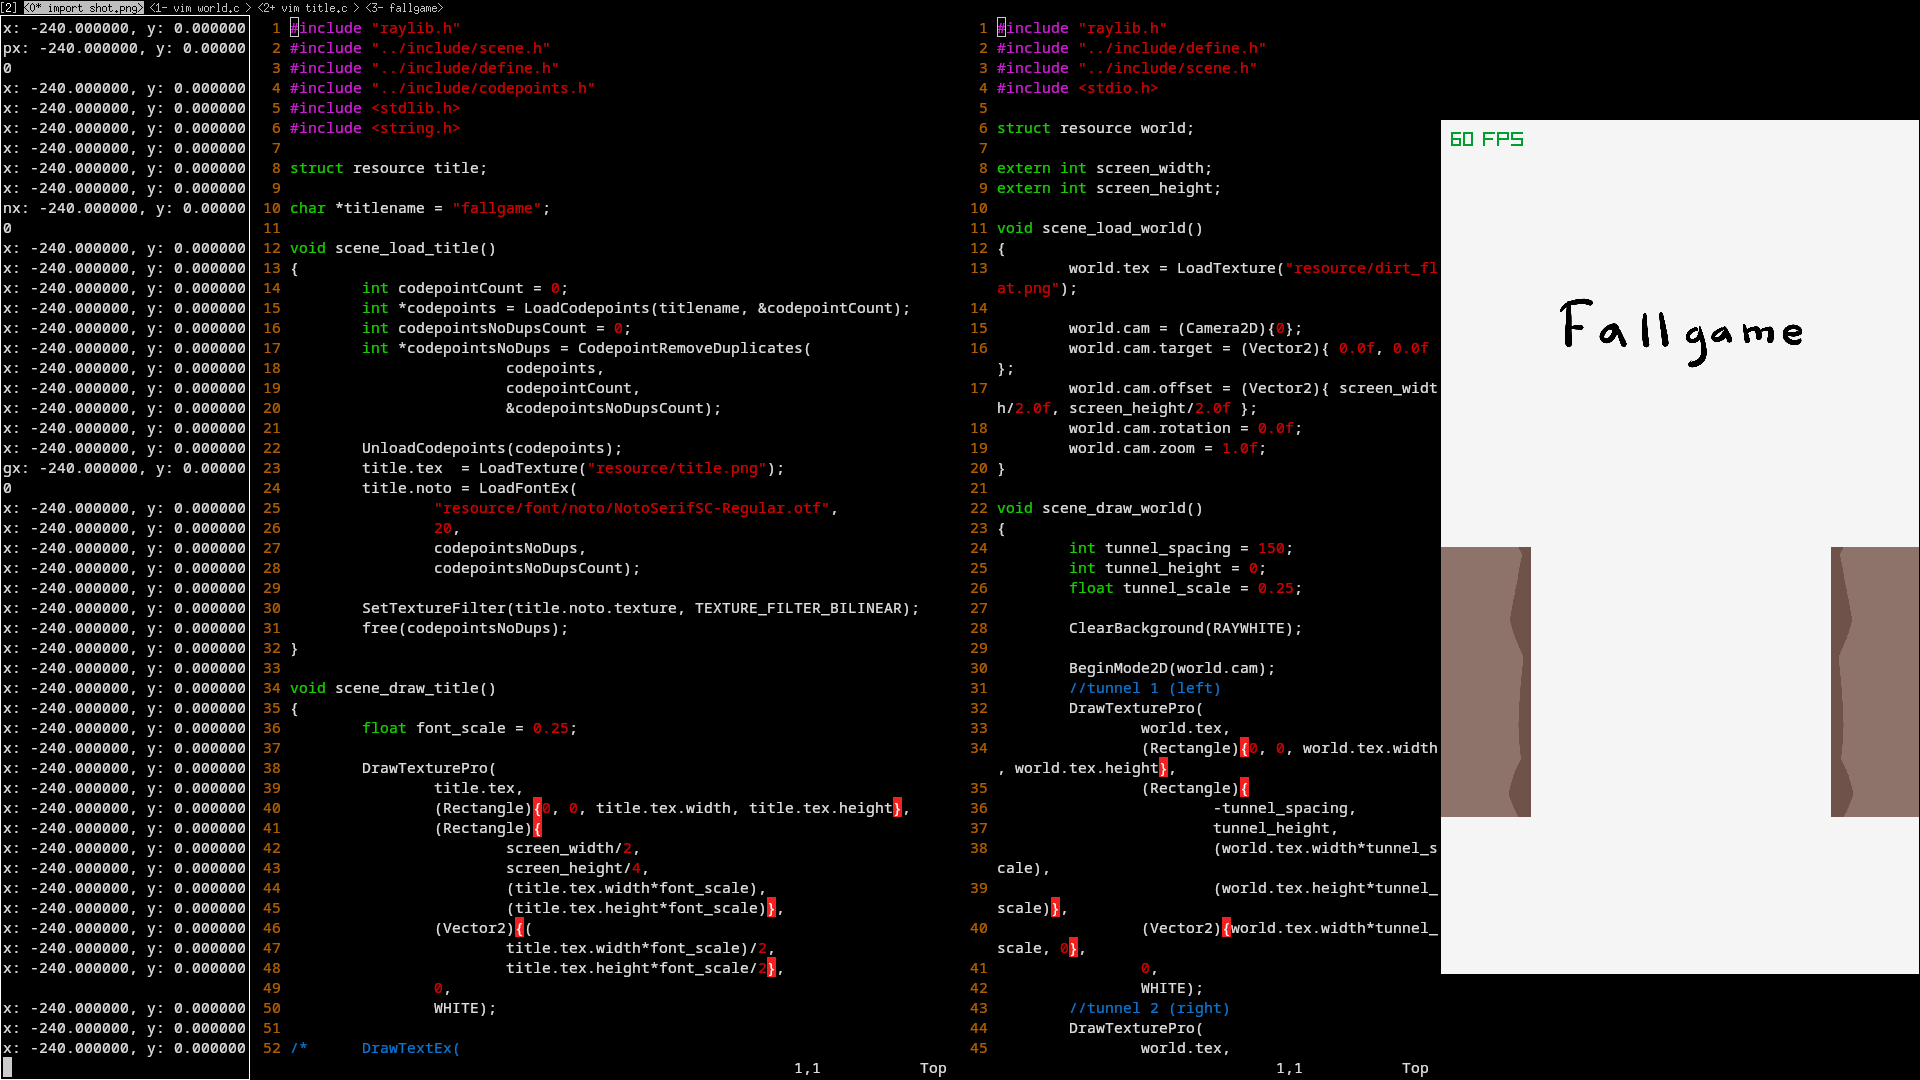
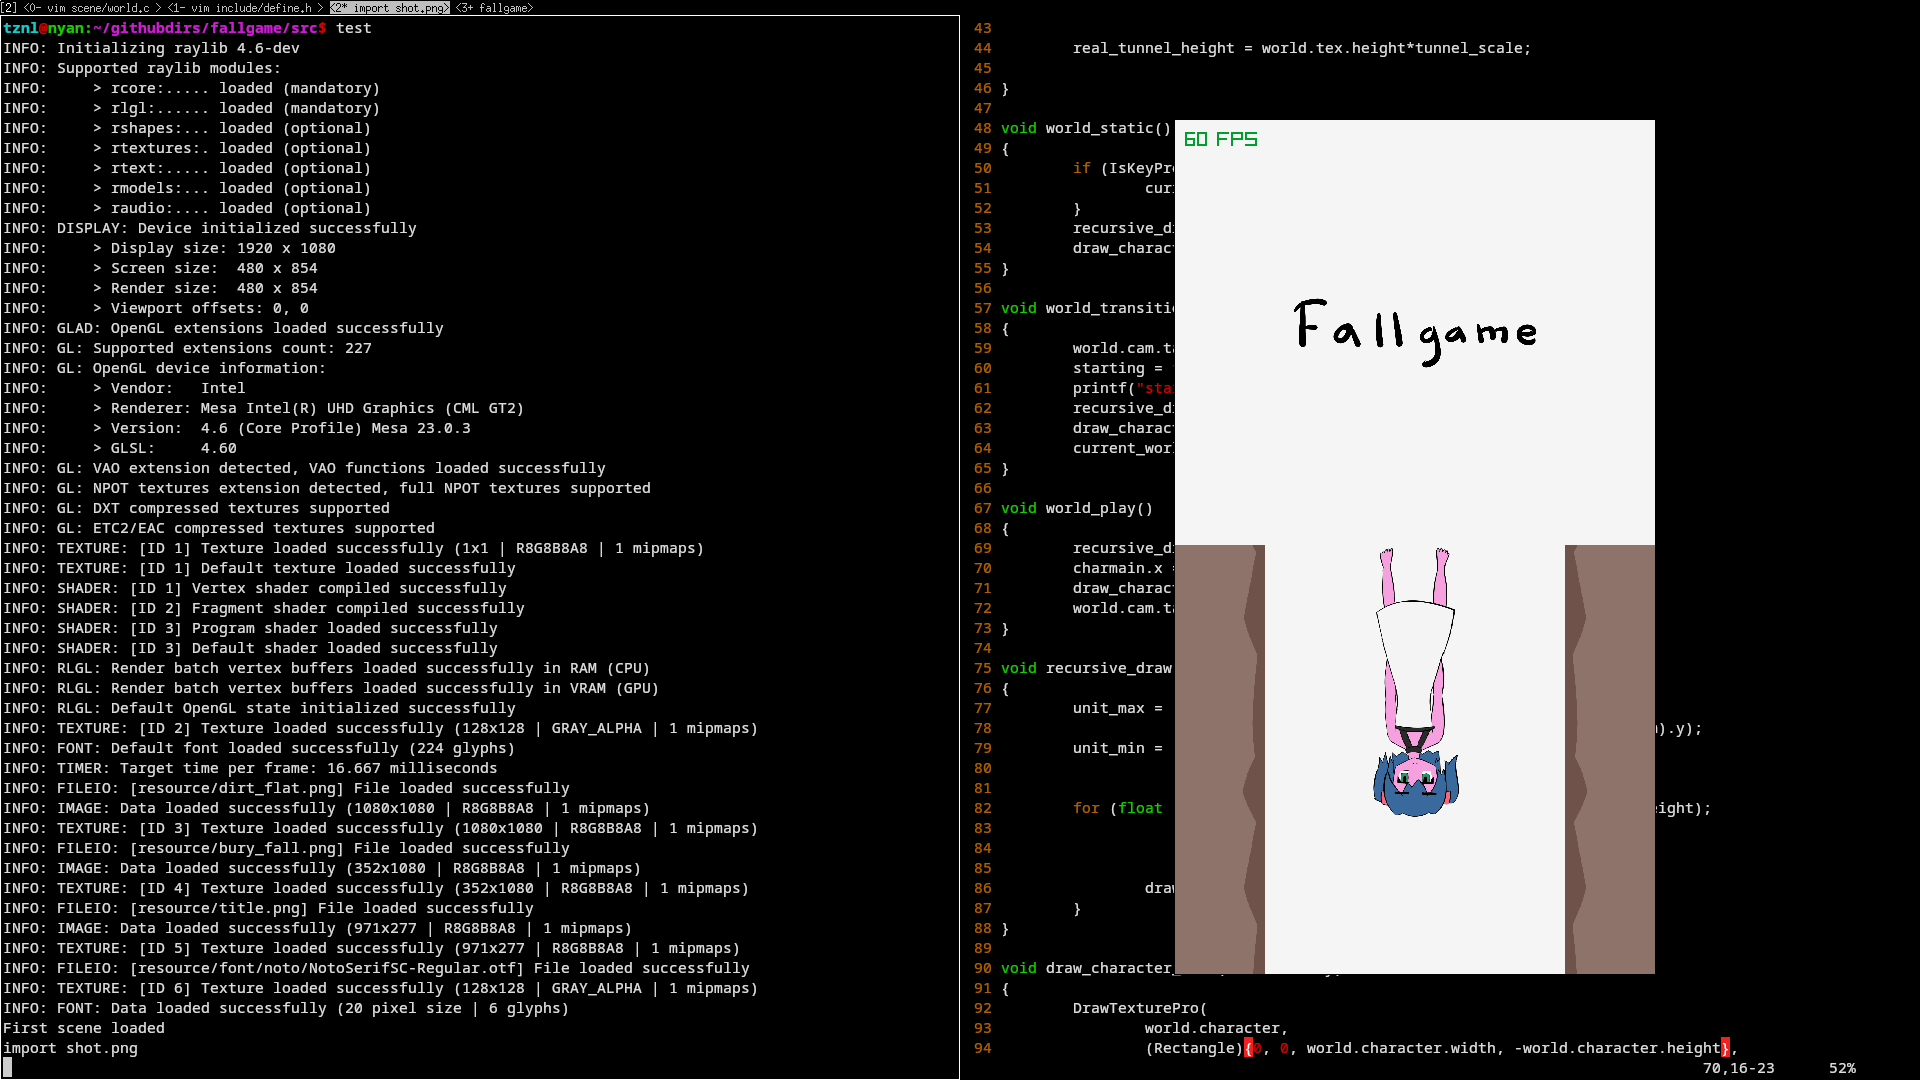
game is almost playable. added character sprite/ the old man is back 0_0

diff --git a/src/scene/world.c b/src/scene/world.c
@@ -4,50 +4,80 @@
 #include <stdio.h>
 #include <math.h>
 
-struct resource world;
+struct character
+{
+	int x;
+	int y;
+	int move;
+};
+struct character charmain;
 
-
-int offset		= 0;
-int tunnel_spacing	= 150;
-int tunnel_height 	= 0;
-int speed		= 10;
+int offset              = 0;
+int tunnel_spacing      = 150;
+int tunnel_height       = 0;
+int speed               = 10; 
 int real_tunnel_height;
 
-float tunnel_scale 	= 0.25;
+float character_scale	= 0.19;
+float tunnel_scale      = 0.25;
 float unit_max;
 float unit_min;
 
 bool started            = false;
-bool starting		= true;
+bool starting           = true;
 
-void scene_load_world()
+void world_load()
 {
         world.tex = LoadTexture("resource/dirt_flat.png");
-
         world.cam = (Camera2D){0};
-        world.cam.target = (Vector2){ 0., 0 };
+        world.cam.target = (Vector2){ 0, 0 };
         world.cam.offset = (Vector2){ screen_width/2.0f, screen_height/2.0f };
         world.cam.rotation = 0.0f;
         world.cam.zoom = 1.0f;
 
+	world.character = LoadTexture("resource/bury_fall.png");
+
+	charmain.y = (int)floor(GetScreenToWorld2D(
+		(Vector2){screen_width/2, screen_height/4}, 
+		world.cam).y);
+	charmain.x = 0;
+	charmain.move = 10;
 	real_tunnel_height = world.tex.height*tunnel_scale;
+	
 }
 
-void scene_draw_world()
+void world_static()
 {
-        ClearBackground(RAYWHITE);
-
-	if (IsKeyPressed(KEY_SPACE)) {
-		started = true;
-	}
-
-	BeginMode2D(world.cam);
-
+        if (IsKeyPressed(KEY_SPACE)) {
+                current_worldstate = TRANSITION;
+        }
 	recursive_draw();
-	printf("current target.y: %f\n", world.cam.target.y); 
+	draw_character_fall(0, 0);
+}
 
-        EndMode2D();
+void world_transition()
+{
+	world.cam.target = (Vector2){ 0.0f, screen_height/4 };
+	starting = false;
+	printf("starting tripped\n");
+	recursive_draw();
+	draw_character_fall(0, 0);
+	current_worldstate = PLAY;
+}
 
+void world_play()
+{
+	if (IsKeyDown(KEY_LEFT)) {
+		charmain.x-=charmain.move;
+	}else if (IsKeyDown(KEY_RIGHT)) {
+		charmain.x+=charmain.move;
+	}
+	charmain.y = (int)floor(GetScreenToWorld2D((Vector2){
+		screen_width, screen_height/4}, world.cam).y);
+	draw_character_fall(charmain.x, charmain.y);
+	recursive_draw();
+	world.cam.target = (Vector2){ 0, speed+world.cam.target.y };
+//	printf("charmain.y: %d\ntarget: %f\n", charmain.y, world.cam.target.y);
 }
 
 void recursive_draw() 
@@ -57,17 +87,28 @@ void recursive_draw()
         unit_min =      (float)(GetScreenToWorld2D(
                         (Vector2){0, 0}, world.cam).y);
 
-        if (started && starting) {
-                world.cam.target = (Vector2){ 0.0f, screen_height/4 };
-                starting = false;
-                printf("starting tripped\n");
-        } else if (started) {
-		world.cam.target = (Vector2){ 0, speed+world.cam.target.y };
-	}
+        for (float      i = tunnel_height + floor(unit_min/real_tunnel_height);
+                        i <= unit_max;
+                        i += real_tunnel_height) {
 
-        for (float i = tunnel_height + floor(unit_min/real_tunnel_height); i <= unit_max; i += real_tunnel_height) {
                 draw_tunnel_unit(i);
         }
+}
+
+void draw_character_fall(int x, int y)
+{
+	DrawTexturePro(
+		world.character,
+		(Rectangle){0, 0, world.character.width, -world.character.height},
+		(Rectangle){
+			charmain.x,
+			charmain.y,
+			world.character.width*character_scale,
+			world.character.height*character_scale},
+		(Vector2)	{(world.character.width*character_scale)/2, 
+				world.character.height*character_scale},
+		0,
+		WHITE);
 }
 
 void draw_tunnel_unit(float offset)

diff --git a/src/scenemanager.c b/src/scenemanager.c
@@ -1,6 +1,8 @@
 #include "raylib.h"
 #include "include/scenemanager.h"
 #include "include/scene.h"
+#include "include/define.h"
+#include <stdio.h>
 
 void scene_new(enum GameScreen scene)
 {
@@ -19,15 +21,30 @@ void scene_new(enum GameScreen scene)
 
 void world_draw(void)
 {
-	scene_draw_world();
+	BeginMode2D(world.cam);
+	ClearBackground(RAYWHITE);
+
+	switch (current_worldstate) {
+		case STATIC: world_static(); break;
+		case TRANSITION: world_transition(); break;
+		case PLAY: world_play();  break;
+		default: break;
+	}
+
+	EndMode2D();
+
 }
 void screen_draw(void)
 {
-	scene_draw_title();
+	switch (current_scene) {
+		case TITLE: screen_draw_title(); break;
+		case NONE: break;
+		default: break;
+	}
 }
 
 void resource_start(void)
 {
-	scene_load_world();
-	scene_load_title();
+	world_load();
+	screen_load_title();
 }

diff --git a/src/scene/title.c b/src/scene/title.c
@@ -1,15 +1,17 @@
 #include "raylib.h"
+#include "../include/scenemanager.h"
 #include "../include/scene.h"
 #include "../include/define.h"
 #include "../include/codepoints.h"
 #include <stdlib.h>
 #include <string.h>
+#include <stdio.h>
 
 struct resource title;
 
 char *titlename = "fallgame";
 
-void scene_load_title()
+void screen_load_title()
 {
 	int codepointCount = 0;
 	int *codepoints = LoadCodepoints(titlename, &codepointCount);
@@ -31,8 +33,12 @@ void scene_load_title()
 	free(codepointsNoDups);
 }
 
-void scene_draw_title()
+void screen_draw_title()
 {
+        if (IsKeyPressed(KEY_SPACE)) {
+                current_scene = NONE;
+        }
+
 	float font_scale = 0.25;
 
         DrawTexturePro(

diff --git a/src/include/scene.h b/src/include/scene.h
@@ -1,17 +1,21 @@
-#pragma once 
-
+#ifndef SCENE_H
+#define SCENE_H
 void scene_unload_title();
-void scene_load_title();
-void scene_draw_title();
+void screen_load_title();
+void screen_draw_title();
 
-void scene_unload_world();
-void scene_load_world();
-void scene_draw_world();
+//void scene_unload_world();
+void world_load();
+void world_static();
+void world_transition();
+void world_play();
 void draw_tunnel_unit(float offset);
-void move_to_start();
-void unstarted();
+void draw_character_fall();
+//void move_to_start();
+//void unstarted();
 void recursive_draw();
 
 //void scene_unload_test();
 //void scene_load_test();
 //void scene_draw_test();
+#endif

diff --git a/src/include/define.h b/src/include/define.h
@@ -2,12 +2,20 @@
 #define DEFINE_H
 #include "raylib.h"
 
+//world data. move to a seperate file later
+enum worldstate { STATIC = 0, PLAY, TRANSITION};
+
+extern struct resource world;
+extern enum worldstate current_worldstate;
+
+//universal data
 extern int screen_width;
 extern int screen_height;
 extern int fps_cap;
 
 struct resource
 {
+	Texture2D character;
         Camera2D cam;
         Font noto;
 	Texture2D tex;

diff --git a/src/include/scenemanager.h b/src/include/scenemanager.h
@@ -1,9 +1,11 @@
-#pragma once
+#ifndef SCENEMANAGER_H
+#define SCENEMANAGER_H
 #include "raylib.h"
-enum GameScreen { UNKNOWN = -1, START = 0, TITLE, TEST };
+enum GameScreen { UNKNOWN = -1, TITLE = 0, NONE};
 extern enum GameScreen current_scene;
 
 void scene_new(enum GameScreen scene);
 void world_draw(void);
 void screen_draw(void);
 void resource_start(void);
+#endif

diff --git a/src/define.c b/src/define.c
@@ -1,6 +1,12 @@
 #include "include/define.h"
 #include "include/scenemanager.h"
 
+//world data. move to a seperate file later
+enum worldstate current_worldstate = STATIC;
+
+struct resource world;
+
+//universal data
 enum GameScreen current_scene = TITLE;
 int screen_width  = 480;
 int screen_height = 854;

diff --git a/src/main.c b/src/main.c
@@ -22,8 +22,8 @@ int main()
 			printf("First scene loaded\n");
 			init_loaded = true;
 		}
-		screen_draw();
 		world_draw();
+		screen_draw();
 		DrawFPS(10, 10);
 
 		EndDrawing();

diff --git a/src/include/codepoints.h b/src/include/codepoints.h
@@ -1,2 +1,4 @@
-#pragma once
+#ifndef CODEPOINTS_H
+#define CODEPOINTS_H
 int *CodepointRemoveDuplicates(int *codepoints, int codepointCount, int *codepointsResultCount);
+#endif
